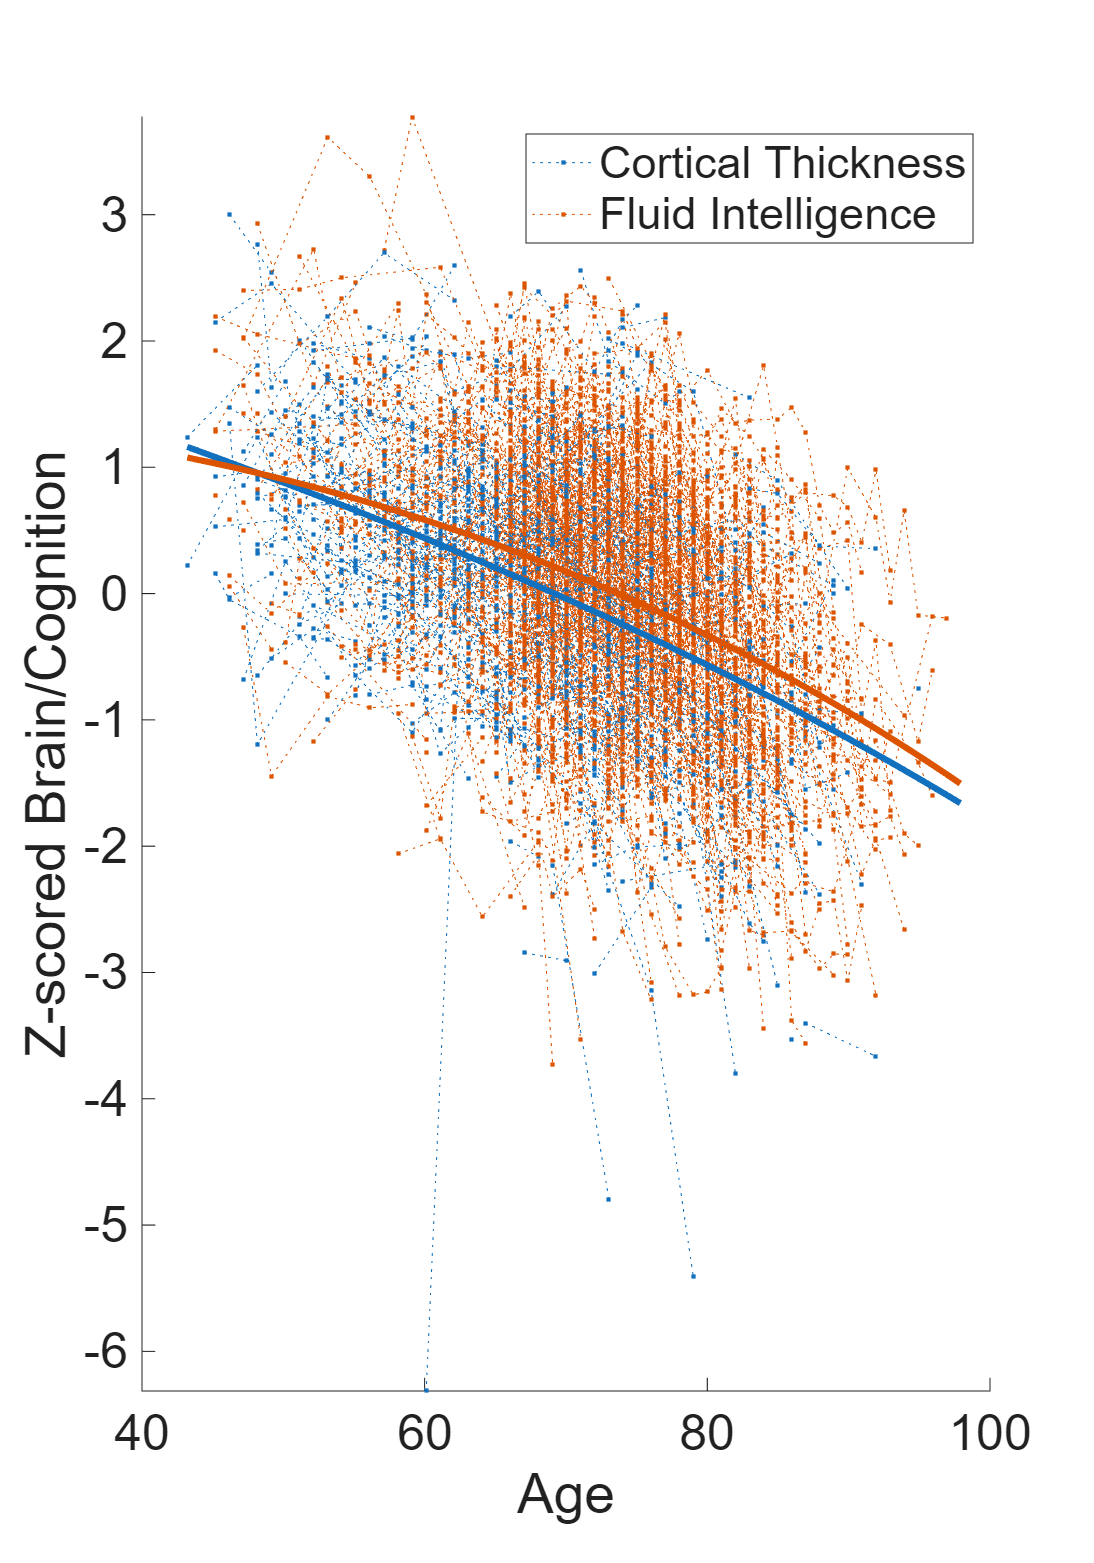
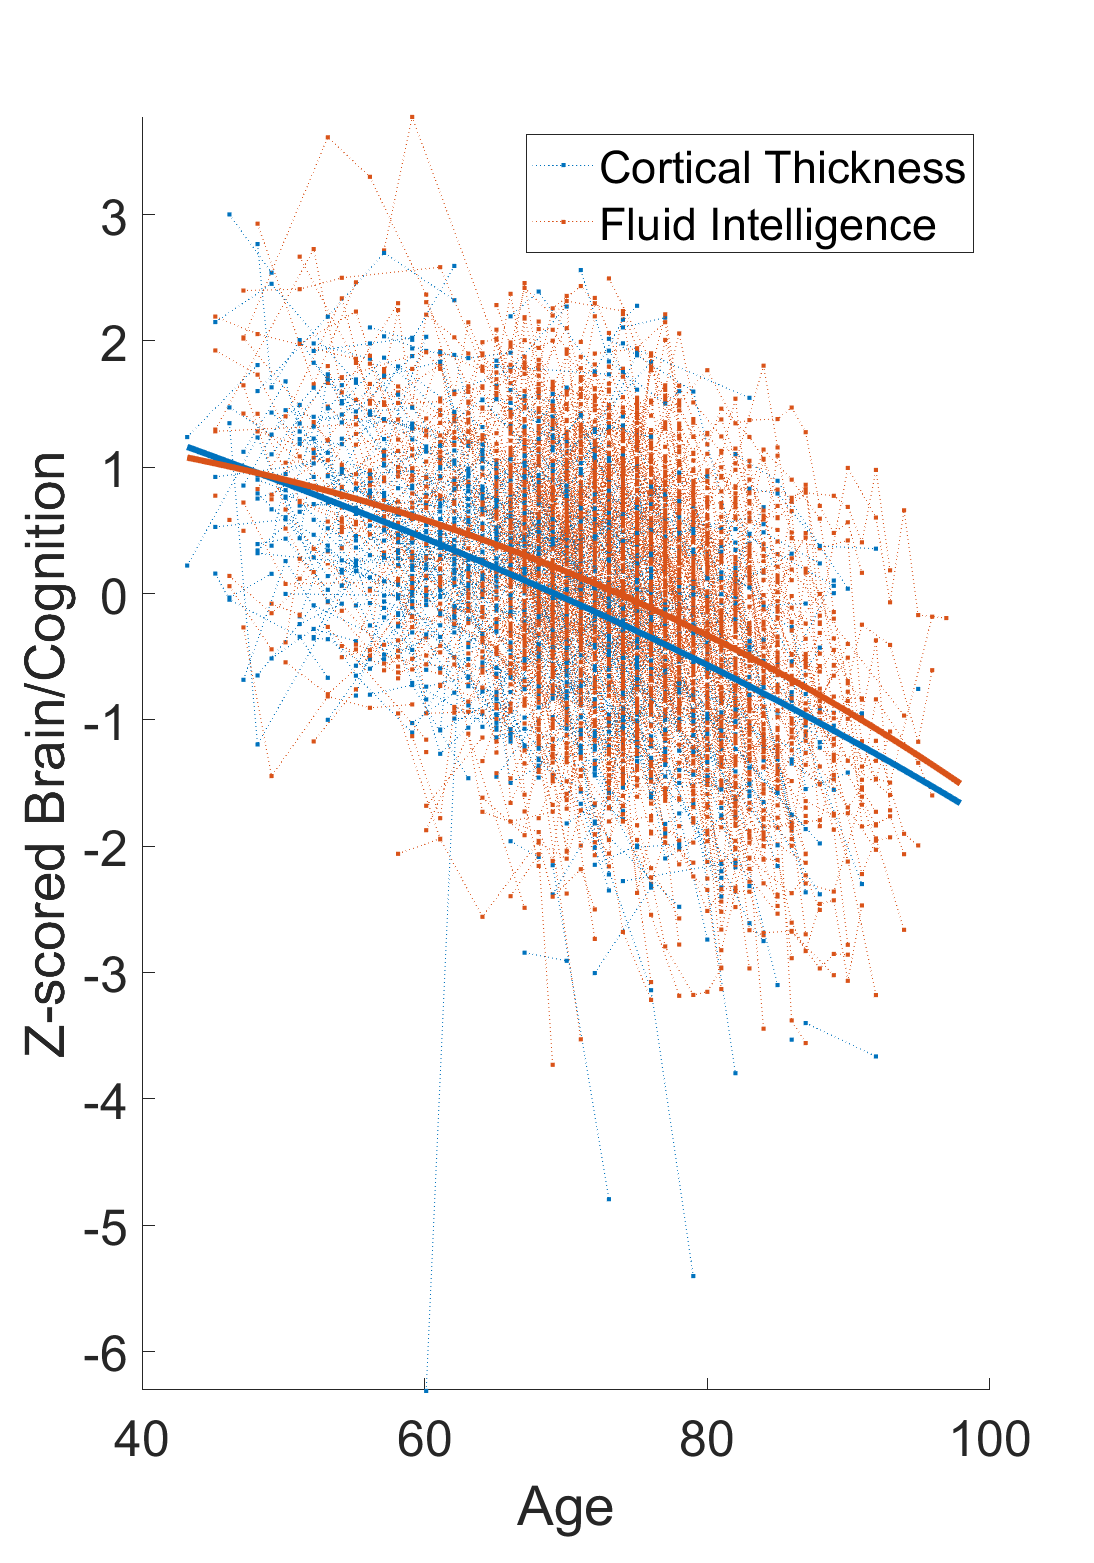
Cleaned versions

diff --git a/SSM/ssm_fit.m b/SSM/ssm_fit.m
@@ -1,4 +1,4 @@
-%% Demonstration of fitting a 2-population model to the OASIS dataset
+%% Demonstration of fitting a 2-state model to the OASIS dataset
 %
 % Rik Henson and Peter Zeidman
 
@@ -22,22 +22,7 @@ zscore_xnan = @(x) bsxfun(@rdivide, bsxfun(@minus, x, mean(x,'omitnan')), std(x,
 brain = zscore_xnan(OASIS_longitudinal_data.Cortical_Thickness);
 cognition = zscore_xnan(OASIS_longitudinal_data.Fluid_Intelligence); % already Z-scored?
 
-%% Remove one-trial practice effects?
-% not_nan = find(~isnan(cognition));
-% y = cognition(not_nan);
-% id_data = id(not_nan);
-% X = zeros(length(not_nan),nsubjects+1);
-% for i = 1:nsubjects
-%     ind = find(id_data == uids(i));
-%     X(ind,1) = [0; ones(length(ind)-1,1)];
-%     X(ind,i+1) = ones(size(ind));
-% end
-% B = pinv(X)*y;
-% y = y - X*B;
-% y = y + X(:,2:end)*B(2:end);
-% cognition(not_nan) = y;
-
-% Decide the number of evenly spaced age bins
+%% Decide the number of evenly spaced age bins
 min_age_in_years = floor(min(age));
 max_age_in_years = ceil(max(age));
 nbins = max_age_in_years - min_age_in_years + 1;
@@ -74,8 +59,6 @@ N_mean_brain = sum(~isnan(Y_brain),2);
 N_mean_cognition = sum(~isnan(Y_cognition),2);
 
 %% Visualise data
-%spm_figure('GetWin','Data');
-%spm_clf;
 figure(Position = [0 70 700 1000])
 
 % Plot data present / absence
@@ -111,23 +94,18 @@ title('Data');
 set(gca,'FontSize',12);
 %ylim([2 2.8]);
 
-%% Simulate data under priors
+%% Fit grand mean (to estimate better priors for each subject later)
 
-% Starting values for states 
+% Starting values for brain and cognitive states 
 x0 = [1 1]';
 
-% Priors
-%M.pE = [0 0 0 0 1 1]';
-M.pE = [3/2 1 1/2 3/2 0 0]'; % chosen to resemble mean data roughly
-M.pC = diag([1/16 1/16 1/16 1/16 1 1]);
-
-% Model spec
+% Define model M
 M.IS = @ode_LL;
 M.f  = @fx_model2;
 M.g  = @gx_model2;
 M.x  = x0; % starting values
 M.l  = 2;  % number of outputs
-M.m  = 1;  % number of inputs (columns of U.u) - does this need to match number of states/outputs?
+M.m  = 0;  % number of inputs 
 M.ns = nbins; % number of samples
 
 % Data structure
@@ -135,100 +113,45 @@ U = struct();
 U.u = zeros(nbins,M.m);
 U.dt = 1;
 
-% Integrate
-[y,ty,x,tx] = ode_LL(M.pE,M,U);
+% Parameters (see fx_model2.m and gx_model2.m):
+% 1 = Brain decline (alpha_1)
+% 2 = Cognitive decline (alpha_2)
+% 3 = Brain->Cognitive (beta_1)
+% 4 = Cognitive->Brain (beta_2)
+% 5 = Brain intercept (delta_1)
+% 6 = Cognitive intercept (delta_2)
 
-% Switch off brain<->cognition interactions and re-integrate
-P = M.pE;
-P(2) = -32; % brain->cognition
-P(3) = -32; % cognition->brain
-[ylinear,ty,xlinear,tx] = ode_LL(P,M,U);
-
-% Create figure
-%spm_figure('GetWin','Simulation under priors');
-figure(Position = [0 0 700 1000])
-
-% Plot states (no-interaction model)
-subplot(2,2,1);
-plot(edges,xlinear,'LineWidth',3);
-legend({'Brain','Cognition'},'Location','west');
-xlabel('Age');
-title('Latent States');
-axis square
-set(gca,'FontSize',12);
-
-% Plot predicted data (no-interaction model)
-subplot(2,2,2);
-plot(edges,ylinear,'LineWidth',3);
-legend({'Brain','Cognition'},'Location','west');
-xlabel('Age');
-title('Simulated data');
-axis square
-set(gca,'FontSize',12);
-
-% Plot states (full model)
-subplot(2,2,3);
-plot(edges,x,'LineWidth',3);
-legend({'Brain','Cognition'},'Location','west');
-xlabel('Age');
-title('Latent States');
-axis square
-set(gca,'FontSize',12);
-
-% Plot predicted data (full model)
-subplot(2,2,4);
-plot(edges,y,'LineWidth',3);
-legend({'Brain','Cognition'},'Location','west');
-xlabel('Age');
-title('Simulated data');
-axis square
-set(gca,'FontSize',12);
-
-%% Fit model to grand mean cortical brain
-
-% Less biased priors?
-M.pE = [0 0 0 0 0 0]'; % shrinkage priors
-M.pC = diag([1/16 1/16 1/16 1/16 1 1]);
+% Priors on parameters
+M.pE = [0 0 0 0 0 0]';                     % shrinkage priors
+M.pC = diag([1/16 1/16 1/16 1/16 1 1]);    % weak priors on intercepts
 %M.pE = [3/2 1 1/2 3/2 0 0]'; % chosen to resemble mean data roughly
 %M.pC = diag([1/16 1/16 1/16 1/16 64 64]);
 
-% Noise priors
-%M.hE = 6;
-%M.hC = 1/1024;
+% (Log) Priors on noise hyperparameters (related to SNR of data; could optimise with model evidence)
 M.hE = 6;
 M.hC = 1/6;
 
-% Measurement precision (nans have low prior precision)
-% Q(i,i) = N where N is the number of measurements (with a min of 1/1024)
-Q={};
-%Q = {diag(max(1/1024,N_mean_brain+N_mean_cognition))};
-%Q = spm_Ce(repmat(nbins,1,2)); % appropriate if observations concatenated
+% Measurement precision, based on number of observations per bin (with nans having min of 1/1024)
+Q = {}; % Q(i,i) = N where N is the number of measurements 
 Q{1} = diag(max(1/1024,N_mean_brain));
 Q{2} = diag(max(1/1024,N_mean_cognition));
-% e = zeros(2); e(1,1)=1;
-% Q{1} = kron(e,diag(max(1/1024,N_mean_brain)));
-% e = zeros(2); e(2,2)=1;
-% Q{2} = kron(e,diag(max(1/1024,N_mean_cognition)));
 
 % Set data
 Y = struct();
 Y.y  = [Y_mean_brain Y_mean_cognition];
 Y.y(isnan(Y.y(:,1)),1) = mean(Y.y(:,1),"omitnan");
 Y.y(isnan(Y.y(:,2)),2) = mean(Y.y(:,2),"omitnan");
-%Y.y = [Y.y(:,1); Y.y(:,2)];
 Y.dt = 1;
 Y.Q  = Q;
 
-% Invert
-%[Ep,Cp,Eh,Ch,F] = variational_laplace(M,U,Y); % does not handle >1 variable
-M.X0 = ones(size(Y.y,1),1);
-%M.X0 = kron(eye(2),ones(nbins,1));
+% Invert (estimate)
+M.X0 = ones(size(Y.y,1),1); % only confound is mean over time
 [Ep,Cp,Eh,Ch,F] = spm_nlsi_GN(M,U,Y);
 
 % Integrate under posteriors
 [yhat,ty,xhat,tx] = ode_LL(Ep,M,U);
 
-% Save in standard DCM format
+% Convert to SPM's "DCM" format for PEB and plotting
 DCM = struct();
 DCM.Ep = Ep;
 DCM.Cp = Cp;
@@ -244,75 +167,12 @@ DCM.xhat = xhat;
 DCM.tx   = tx;
 DCM.ages = edges;
 
-% Bayesian model reduction: reduced model with/without each parameter
-
-% Full priors
-pE = M.pE;
-pC = M.pC;
-
-models = [
-    1 0 0 1  1 1;  % No cross-terms
-    1 0 1 1  1 1;  % No B->C
-    1 1 0 1  1 1   % No C->B
-]
-nmodels = size(models,1)
-Pp = zeros(nmodels,1);
-for m = 1:nmodels
-    % Reduced prior mean
-    rE = pE;
-    rP = find(~models(m,:));
-    rE(rP) = -32;
-
-    % Reduced prior covariance
-    rC = pC;
-    rC(rP,rP) = 0; % point null quite unlikely?
-    %rC(rP,rP) = mean(pE)/100;
-
-    % Compare models (reduced - full free energy)
-    dF = spm_log_evidence_reduce(Ep,Cp,pE,pC,rE,rC);
-
-    % F -> P
-    P = spm_softmax([dF; 0]);
-    Pp(m) = P(2);
-%    fprintf('Model %d: Log bayes factor versus full model: %2.2f, P=%2.2f\n',...
-%        m,dF,P(2));   
-end
-Pp
-
-%Pp = 1 - spm_Ncdf(pE,abs(Ep),diag(Cp)) % different from priors
-%Pp = 1 - spm_Ncdf(0,abs(Ep),diag(Cp)) % different from 0
-Pp = 1 - spm_Ncdf(0,Ep,diag(Cp)) % greater than 0
-
-% nparams = length(pE);
-% Pp = zeros(nparams,1);
-% for parameter = 1:nparams
-%     % Reduced prior mean
-%     rE = pE;
-%     rE(parameter) = -32;
-% 
-%     % Reduced prior covariance
-%     rC = pC;
-%     rC(parameter,parameter) = 0;
-% 
-%     % Compare models (reduced - full free energy)
-%     dF = spm_log_evidence_reduce(Ep,Cp,pE,pC,rE,rC);
-% 
-%     % F -> P
-%     P = spm_softmax([dF; 0]);
-%     Pp(parameter) = P(2);
-%     fprintf('Parameter %d: Log bayes factor versus full model: %2.2f, P=%2.2f\n',...
-%         parameter,dF,P(2));   
-% end
-
-% Save
-DCM.Pp = Pp;
 DCM_avg = DCM;
 save('DCM_avg.mat','DCM_avg');
 
 %% Review model
-f1 = review_model2(DCM);
-%review_model2(DCM, age, [brain cognition]);
-%saveas(f1, 'Parameters.png', 'png')
+f1 = review_model2(DCM, age, [brain cognition]);
+%saveas(f1, 'Group_Average_Parameters.png', 'png')
 
 %% Figure for grant
 f2=figure(Position = [0 70 700 1000]);
@@ -346,12 +206,12 @@ all_y = [brain; cognition];
 ylim([min(all_y) max(all_y)])
 saveas(f2, 'Fit.png', 'png')
 
-%% PEB
+%% Now re-estimate every subject using group-average priors
 GCM = cell(nsubjects,1);
 for i = 1:nsubjects
     DCM = DCM_avg;
 
-    % Set prior for estimate
+    % Set priors from fitting grand-average
     DCM.M.pE = DCM_avg.Ep;
     DCM.M.pC = DCM_avg.Cp;
 
@@ -366,8 +226,6 @@ for i = 1:nsubjects
         p = isnan(y(:,v));
         q(p) = 1/1024;
         Q{end+1} = diag(q);
-        %e = zeros(nv); e(v,v)=1;
-        %Q{end+1} = kron(e,diag(q));
 
         % Set nans to an arbitrary value
         y(p,v) = mean(y(:,v),"omitnan");  
@@ -379,7 +237,6 @@ for i = 1:nsubjects
     DCM.M.nograph = 1;
     DCM.M.noprint = 1;
     % Invert
-    %[Ep,Cp,Eh,Ch,F] = variational_laplace(DCM.M,DCM.U,DCM.Y);    
     [Ep,Cp,Eh,Ch,F] = spm_nlsi_GN(DCM.M,DCM.U,DCM.Y);
 
     % Integrate under posteriors
@@ -400,18 +257,13 @@ for i = 1:nsubjects
 end
 fprintf('\n')
 
-
+%% Run PEB and Bayesian Model Averaging (BMA)
 % We limit to just state-space model parameters, because the 
 % parameter for the observation model has a very wide prior
 % which would need its own covariance component in the PEB model.
 inc = 1:4;
 PEB = spm_dcm_peb(GCM,[],inc);
-
-BMA = spm_dcm_peb_bmc(PEB); % shows P3 not needed
-
-%[RCM,BMR,BMA] = spm_dcm_bmr_all(PEB)
-
-%% Second level analysis
+BMA = spm_dcm_peb_bmc(PEB); % shows beta_2 not needed
 
 % Random effects average
 %Ep  = PEB.Ep;
@@ -419,7 +271,7 @@ BMA = spm_dcm_peb_bmc(PEB); % shows P3 not needed
 Ep  = BMA.Ep;
 Cp  = BMA.Cp;
 
-% Fixed effects average over subjects for P5 and P6
+% Use fixed effects average over subjects for Parameters 5 and 6
 BPA = spm_dcm_bpa(GCM,true);
 for r = setdiff([1:length(BPA.Ep)], inc)
     Ep(r) = BPA.Ep(r);
@@ -436,11 +288,7 @@ DCM.Cp = Cp;
 DCM.yhat = yhat;
 DCM.xhat = xhat;
 
-DCM.M.pE = repmat(0.01,1,6); % Just to show tiny bar on plot!
-
 f1 = review_model2(DCM);
 set(gca,'FontSize',18)
-%legend({'Prior';' ';'Posterior';' '})
-text(0.9,1.5,'Prior','color',[0 0 0],'FontSize',24)
-text(0.9,1.3,'Posterior','color',[51 153 255]./255,'FontSize',24)
+legend({'Prior';'Posterior'})
 saveas(f1, 'Parameters.png', 'png')
